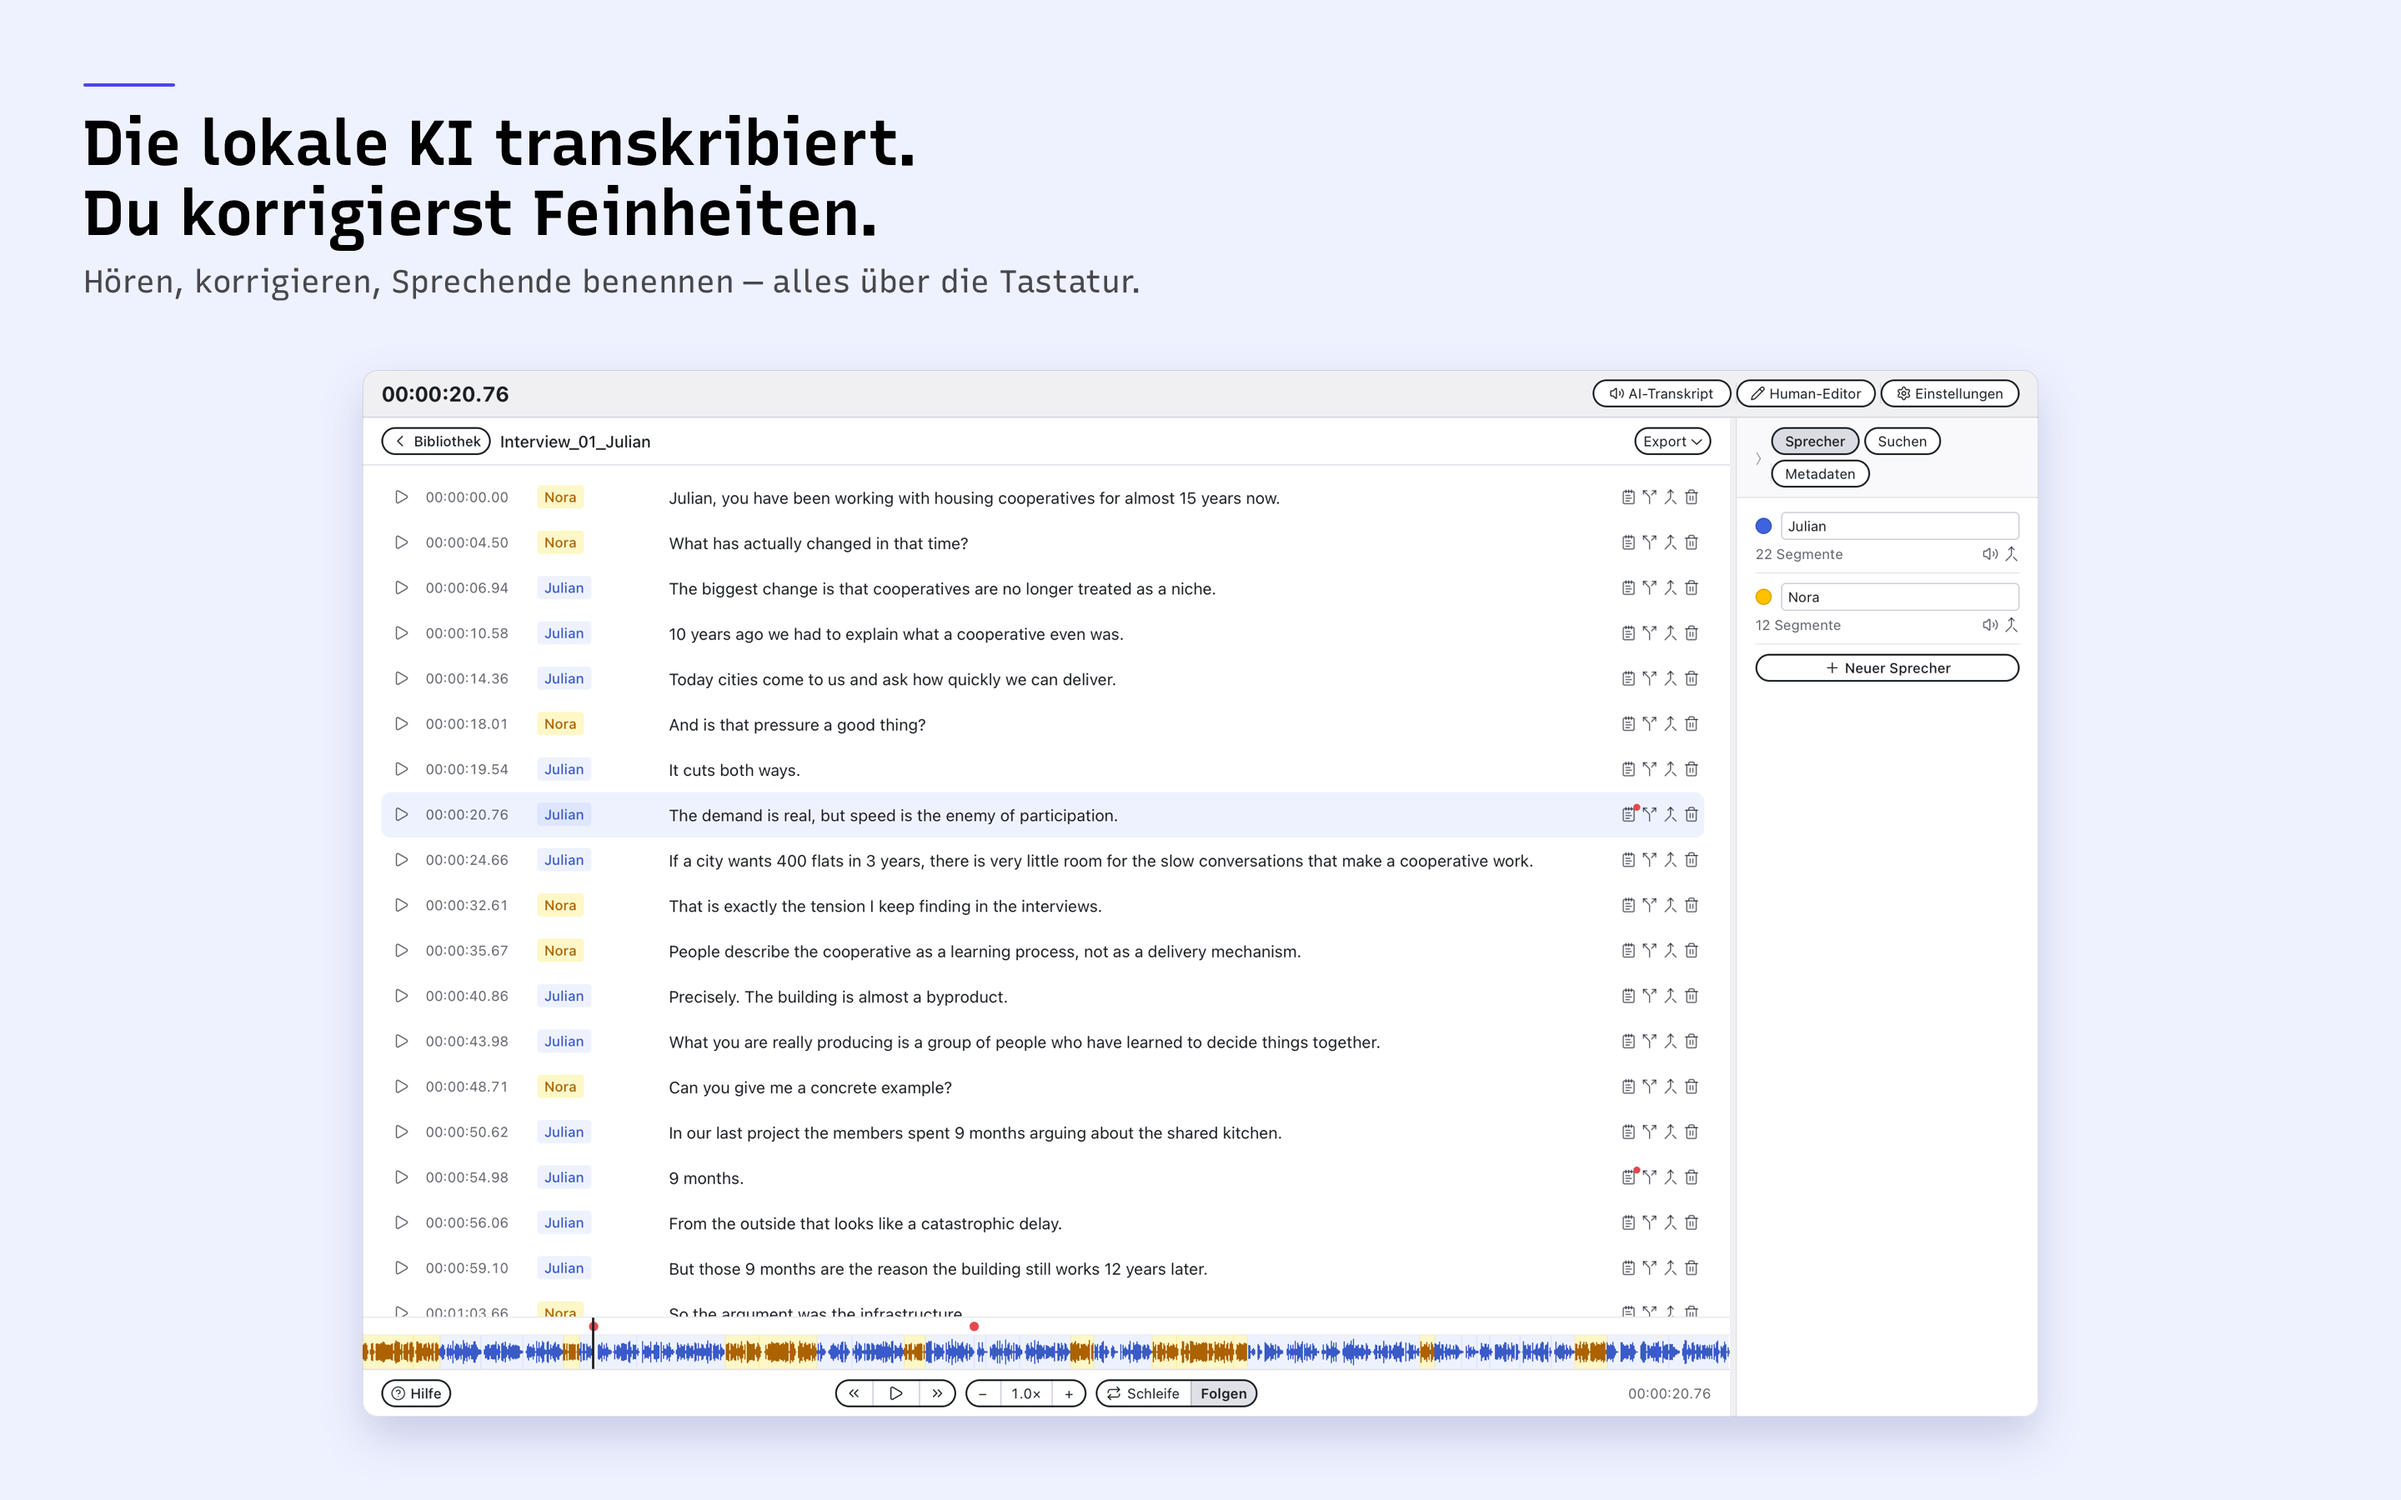
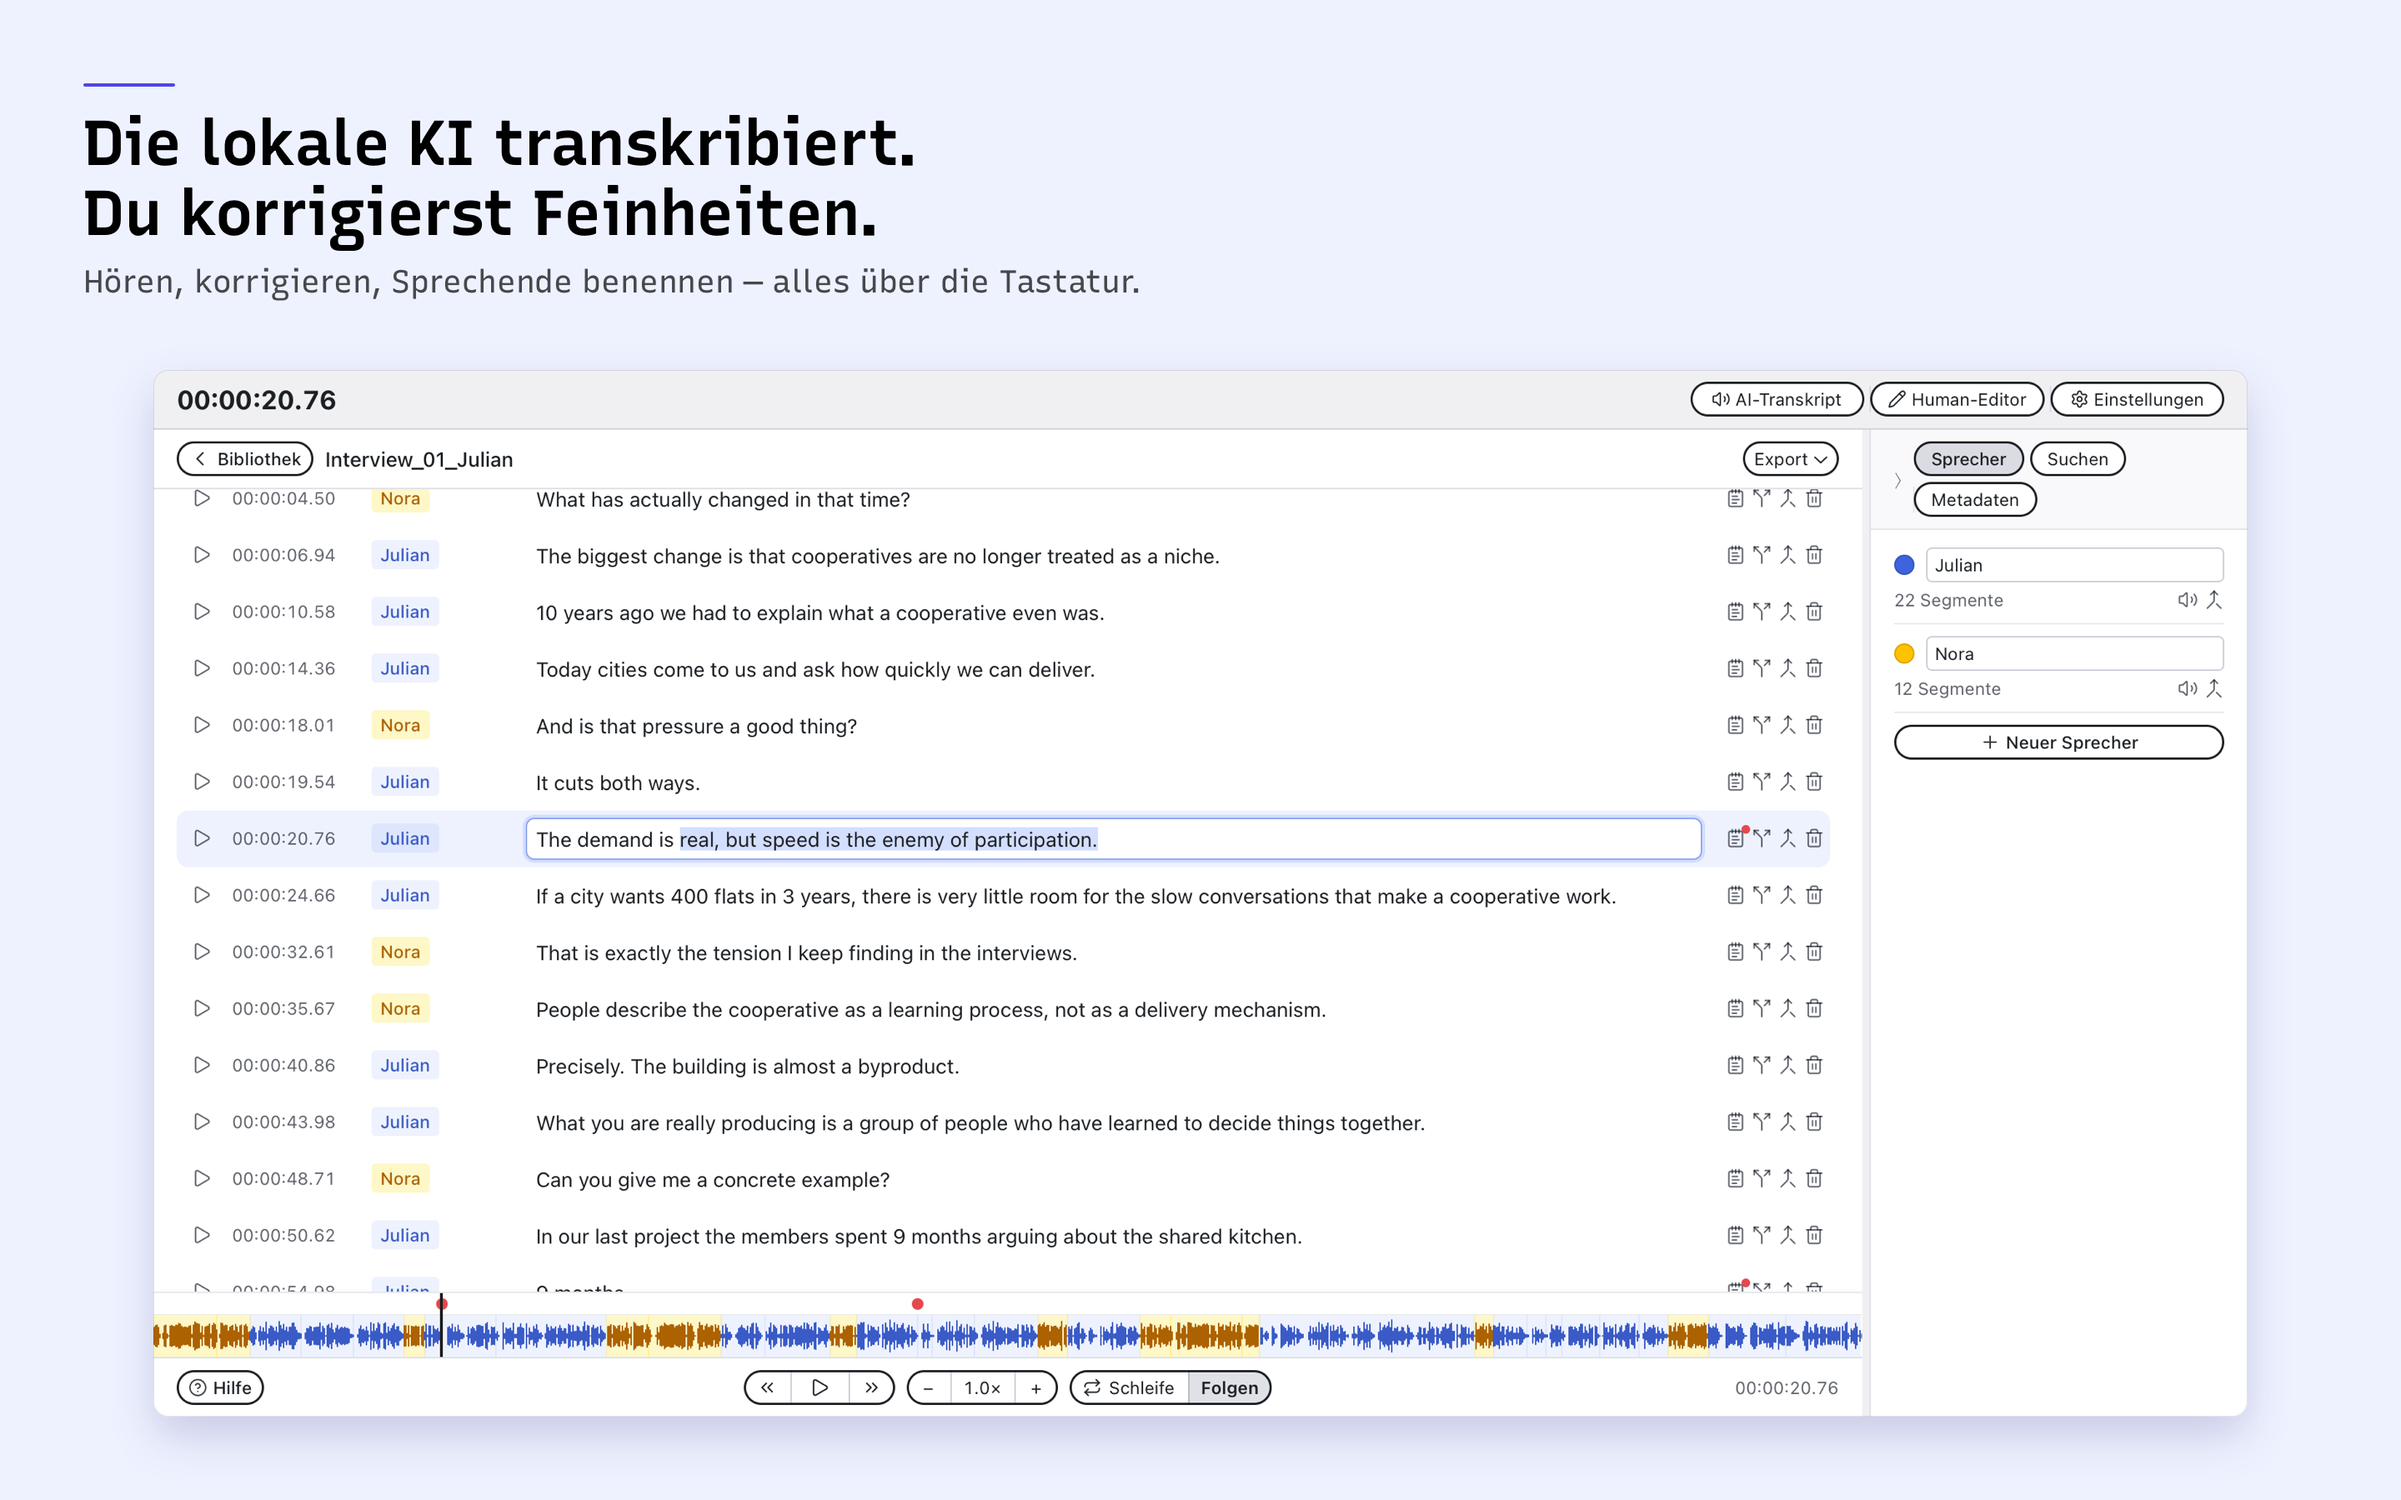
Store-Bilder: vier Motive in vier Sprachen, hell und dunkel gemischt
Der Satz konzentriert sich auf den Ablauf, den die App trägt: du korrigierst
(hell), die Maschine arbeitet (dunkel), du notierst (hell), du exportierst
(dunkel). Suchen/Ersetzen, Sprecherfarben, Bibliothek und Einstellungen sind
raus — vier Bilder sagen mehr als acht halbe. Die Datenschutz-Aussage steht
jetzt in der Unterzeile von Motiv 2, wo sie am Bild hängt.

appstore-screenshots.mjs --satz nimmt die vier Motive in allen Sprachen und
beiden Erscheinungsbildern auf, in einem breiten Fenster (1440x720 x 2 =
2880x1440, 2:1), das die Bühne der Montage fast ganz füllt. Neu darin:

- Zeile 7 wird zur Bearbeitung geöffnet und der Text markiert — der Titel
  verspricht das Korrigieren, also muss man es sehen.
- Der Memo-Dialog zeigt ein geschriebenes Memo in der Sprache der Oberfläche.
- Motiv 2 zeigt einen Lauf BEI DER ARBEIT. Dafür läuft im Hintergrund eine
  vierfache Kopie des Demo-Interviews (acht Minuten Ton), die für alle acht
  Aufnahmen reicht; abgebrochen wird erst am Schluss, sonst stünde in einem
  Bild «Abgebrochen».

Die Montage nimmt je Motiv das erzeugte Bild aus dem Ordner seines
Erscheinungsbildes und greift nur dort auf Handaufnahmen zurück, wo keines
liegt — und sagt es in der Ausgabe.

Claude-Session: https://claude.ai/code/session_01VhoDoDyamQwRzZ3dqypMTk

Changed region(s): [[0.0625, 0.2489, 0.9375, 0.9644], [0.7188, 0.5911, 0.75, 0.7156], [0.7188, 0.7778, 0.75, 0.84]]

diff --git a/appstore/texte/bildtexte.md b/appstore/texte/bildtexte.md
@@ -45,50 +45,53 @@ Zwei Entscheide, die aus dem ersten Entwurf stammen:
 
 ## Motive, in dieser Reihenfolge
 
-Die ersten drei sieht man im Store ohne Blättern.
+Vier Bilder, die zusammen einen Ablauf erzählen — mehr verwässert nur. Hell und
+dunkel wechseln sich ab, damit der Satz im Store nicht monoton wirkt und beide
+Erscheinungsbilder belegt sind.
 
-| # | Rohaufnahme | Was zu sehen sein soll |
-|---|---|---|
-| 1 | `01-editor.png` | Editor mit Transkript, zwei Sprechenden, Wellenform unten — **und eine Zeile offen in Bearbeitung**, Einfügepunkt im Text sichtbar. Der Titel verspricht das Korrigieren, also muss man es sehen. |
-| 2 | `08-einstellungen.png` | **neu** — Einstellungen, Karte Datenschutz und Lizenzen |
-| 3 | `02-ai-transkript.png` | **laufende** Transkription: Blockzähler, Fortschrittsbalken, mitlaufender Text — **im dunklen Erscheinungsbild**. Die reine Warteliste zeigte nur Dateinamen; dass die App gerade arbeitet, sieht man erst am Fortschritt. |
-| 4 | `03-export.png` | offenes Export-Menü mit allen Formaten |
-| 5 | `09-memo.png` | **neu** — Editor mit **offenem Memo-Dialog an einer Zeile**, Memo geschrieben (ein echter Analysegedanke, kein «Test»). Die Bibliothek zeigte nur einen Ordner mit Dateien; das sagt über die Arbeit nichts. |
-| 6 | `04-suchen-ersetzen.png` | Suchen und Ersetzen mit Treffern |
-| 7 | `05-sprecherfarbe.png` | Sprechende benennen und färben |
-| 8 | `07-editor-dunkel.png` | derselbe Editor im dunklen Erscheinungsbild |
+| # | Grund | Rohaufnahme | Was zu sehen ist |
+|---|---|---|---|
+| 1 | hell | `01-editor.png` | Editor mit Transkript, zwei Sprechenden, Wellenform — **eine Zeile offen in Bearbeitung, Text markiert**. Der Titel verspricht das Korrigieren, also muss man es sehen. |
+| 2 | dunkel | `02-ai-transkript.png` | Ein Lauf **arbeitet**: Blockzähler, Fortschritt, mitlaufender Text. Darüber wartet die Schlange mit drei Dateien und ihrer Sprecherzahl, darunter steht ein fertiger Lauf. |
+| 3 | hell | `09-memo.png` | Memo-Dialog an derselben Zeile, Memo **geschrieben** — in der Sprache der Oberfläche. |
+| 4 | dunkel | `03-export.png` | offenes Export-Menü mit allen Formaten |
+
+Nicht mehr im Satz, aber jederzeit wieder aufnehmbar: Suchen und Ersetzen,
+Sprecherfarben, Bibliothek, Einstellungen. Die Datenschutz-Aussage steht jetzt in
+der Unterzeile von Motiv 2, wo sie am Bild hängt.
 
 ## Aufnahme
 
-Die Rohaufnahmen kommen aus der **gebauten Store-App** (TestFlight), nicht aus dem
-Browser: Umschalt-Befehl-Vier, dann Leertaste, dann auf das Fenster klicken. Das Fenster
-vorher **breit ziehen** — je näher es an 2:1 kommt, desto grösser steht es in der
-Montage; ein schmales Fenster lässt links und rechts Luft stehen.
+Die Rohaufnahmen entstehen mit dem Skript — vier Sprachen, beide Erscheinungsbilder,
+in einem Lauf:
 
-macOS nimmt das Fenster **mit Schatten und durchsichtigen Ecken** auf. Beides muss weg,
-sonst zeigt die Montage einen schmutzigen Rand und vier helle Zipfel:
+```
+node scripts/appstore-screenshots.mjs --satz
+node scripts/appstore-montage.mjs
+```
+
+Aufgenommen wird die echte Oberfläche gegen ein Demo-Backend mit dem **erfundenen**
+Interview aus `docs/demo` — nie echtes Forschungsmaterial. Fenster 1440 × 720 bei
+doppelter Auflösung: 2880 × 1440, Seitenverhältnis 2:1, damit das Fenster die Bühne
+der Montage fast ganz füllt. Ergebnis:
+`appstore/screenshots/<sprache>/<hell|dunkel>/2880x1440/`.
+
+**Handaufnahmen nur als Rückfall.** Wo ein Motiv im Browser-Betrieb nicht entstehen
+kann — vor allem die Einstellungsseite, die dort den Knopf «Releases» aus dem
+DMG-Kanal zeigt —, kommt es aus der gebauten Store-App: Umschalt-Befehl-Vier, dann
+Leertaste, dann auf das Fenster klicken; Fenster vorher breit ziehen. macOS nimmt es
+**mit Schatten und durchsichtigen Ecken** auf, beides muss weg:
 
 ```
 python3 scripts/appstore-freistellen.py ~/Desktop/Bildschirmfoto\ ….png \
-        appstore/upload/de/09-memo.png
+        appstore/upload/de/08-einstellungen.png
 ```
 
-Das Skript schneidet auf den deckenden Fensterbereich zu und füllt die gerundeten Ecken
-mit der Farbe des nächsten Fensterpixels. Rundung und Schatten setzt die Montage selbst,
-damit alle Motive gleich aussehen. Ablegen unter `appstore/upload/<sprache>/` mit genau
-den Dateinamen aus der Tabelle.
-
-Warum nicht aus dem Browser: Dort ist `isTauri()` falsch und der Vertriebskanal «dmg».
-Die Einstellungsseite zeigt dann einen Knopf «Releases», der aus dem Store heraus auf
-Downloads ausserhalb des Stores verweist, und es fehlen Bedienelemente, die es nur in
-der App gibt. Genau daran wäre die alte Fassung gescheitert.
-
-Danach montieren:
-
-```
-node scripts/appstore-montage.mjs              # alle vier Sprachen
-node scripts/appstore-montage.mjs --sprachen de
-```
+Das Skript schneidet auf den deckenden Fensterbereich zu und füllt die gerundeten
+Ecken mit der Farbe des nächsten Fensterpixels; Rundung und Schatten setzt die
+Montage, damit alle Motive gleich aussehen. Die Montage nimmt für jedes Motiv zuerst
+das erzeugte Bild und greift nur dort auf `appstore/upload/<sprache>/` zurück, wo
+keines liegt — sie sagt in der Ausgabe, wann sie das tut.
 
 Ergebnis: `appstore/store/<sprache>/NN-motiv.png`, fertig zum Hochladen.
 
